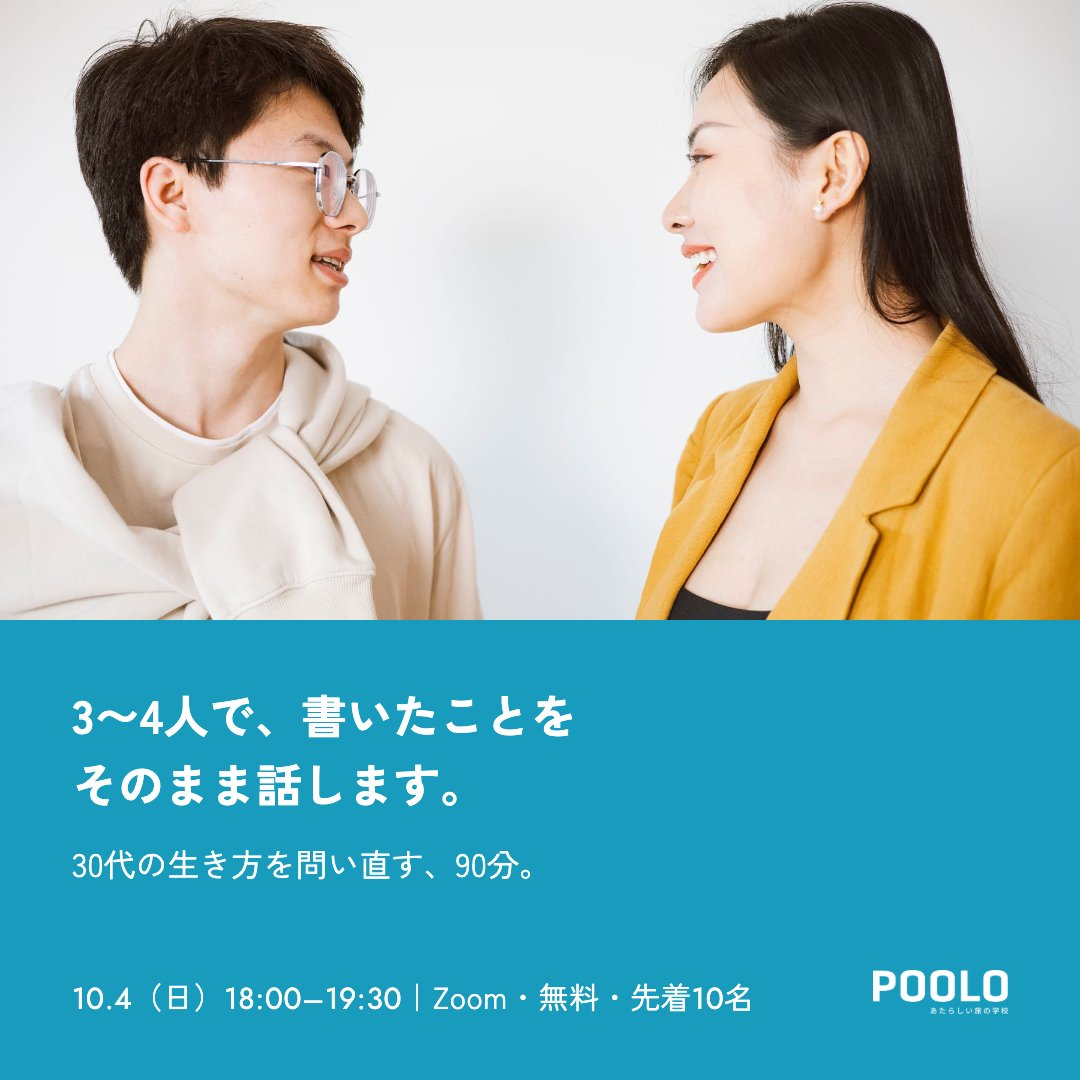
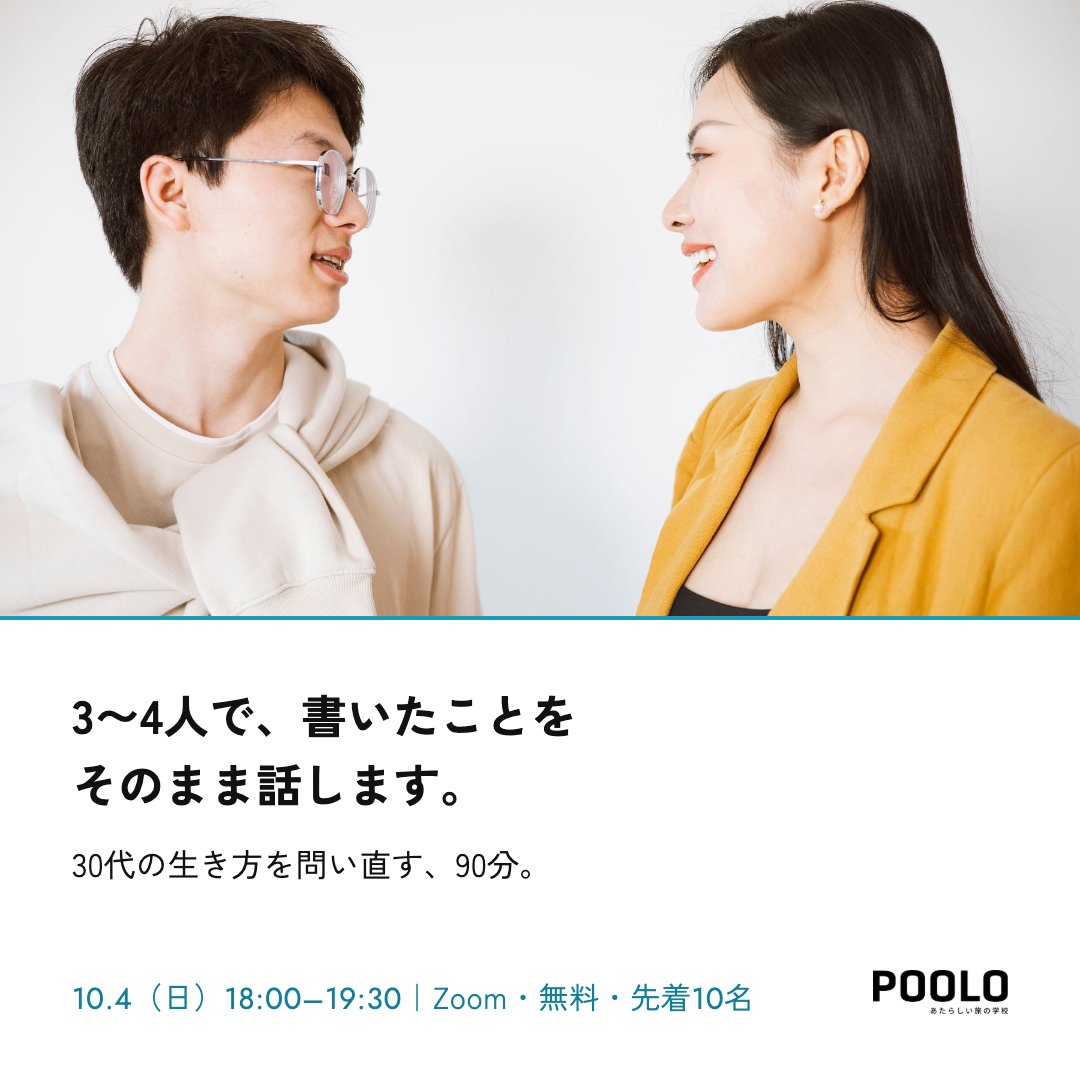
撮影ディレクション：カット3のバナーを白地に変更

diff --git a/photo-direction-260928/index.html b/photo-direction-260928/index.html
@@ -69,7 +69,7 @@ th{width:11em;font-weight:700}
 <div class="head"><span class="num">3</span><div><h3>2人の対話</h3><p class="sub">向かい合って話す2人</p></div><span class="tag">本番中に撮れる</span></div>
 <p class="body">2人を横から撮ります。話している人だけでなく、聞いている側の表情に寄ったカットもほしいです。体験会の「話す時間」を伝える写真になります。</p>
 <div class="photos"><a class="ph" href="https://www.pexels.com/photo/man-and-woman-having-a-conversation-8518732/" target="_blank" rel="noopener"><img src="images/cut03-1.jpg" width="800" height="533" alt="向かい合って話す2人のイメージ"></a><a class="ph" href="https://www.pexels.com/photo/woman-in-white-dress-shirt-beside-man-in-green-dress-shirt-4255383/" target="_blank" rel="noopener"><img src="images/cut03-2.jpg" width="800" height="533" alt="向かい合って話す2人のイメージ"></a><a class="ph" href="https://unsplash.com/photos/two-women-sitting-at-a-table-with-a-book-ixijtx21E7c" target="_blank" rel="noopener"><img src="images/cut03-3.jpg" width="800" height="533" alt="向かい合って話す2人のイメージ"></a></div>
-<div class="mock"><img src="images/banner-3.jpg" width="1080" height="1080" alt="カット3を使ったバナーの試作"><div><p class="mk">バナーにすると</p><p>写真の下にブルーの帯を敷き、「話す時間」の説明を白い文字で入れます。2人の顔が上半分に収まっていると使いやすいです。</p><p class="ad">組み方の参考にした広告：<a href="https://www.facebook.com/ads/library/?id=1101421175720761" target="_blank" rel="noopener">秦野市 移住体験バスツアー</a></p></div></div></section><section class="cut" id="cut4">
+<div class="mock"><img src="images/banner-3.jpg" width="1080" height="1080" alt="カット3を使ったバナーの試作"><div><p class="mk">バナーにすると</p><p>写真の下の白地に、「話す時間」の説明を入れます。2人の顔が上半分に収まっていると使いやすいです。</p><p class="ad">組み方の参考にした広告：<a href="https://www.facebook.com/ads/library/?id=1101421175720761" target="_blank" rel="noopener">秦野市 移住体験バスツアー</a></p></div></div></section><section class="cut" id="cut4">
 <div class="head"><span class="num">4</span><div><h3>3〜4人の輪</h3><p class="sub">テーブルを囲んで話す</p></div><span class="tag">本番中に撮れる</span></div>
 <p class="body">少し高い位置から、机の上のワークシートやペンも入るように撮ります。1人は笑っているカットがあると使いやすいです。</p>
 <div class="photos"><a class="ph" href="https://unsplash.com/photos/woman-sitting-on-yellow-armless-chair-near-gray-laptop-computer-lp1AKIUV3yo" target="_blank" rel="noopener"><img src="images/cut04-1.jpg" width="800" height="600" alt="テーブルを囲んで話すのイメージ"></a><a class="ph" href="https://unsplash.com/photos/three-men-sitting-on-a-couch-talking-Z0dOXKgD2ek" target="_blank" rel="noopener"><img src="images/cut04-2.jpg" width="800" height="533" alt="テーブルを囲んで話すのイメージ"></a><a class="ph" href="https://unsplash.com/photos/people-sitting-on-sofa-and-floor-inside-room-5Wcv4joSriY" target="_blank" rel="noopener"><img src="images/cut04-3.jpg" width="800" height="533" alt="テーブルを囲んで話すのイメージ"></a></div>
